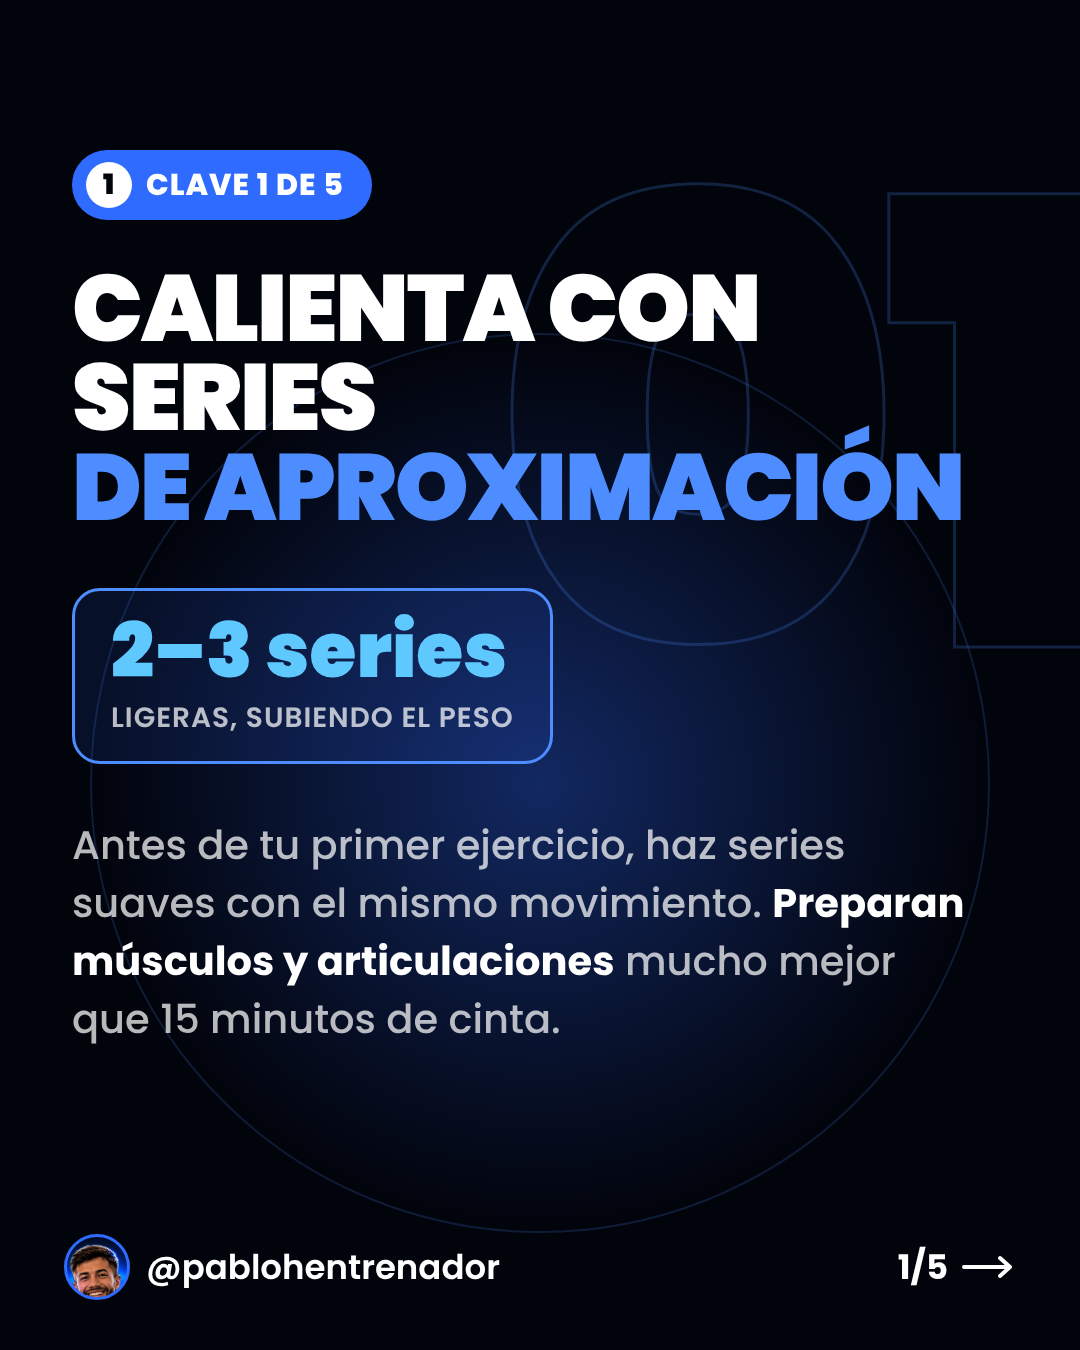
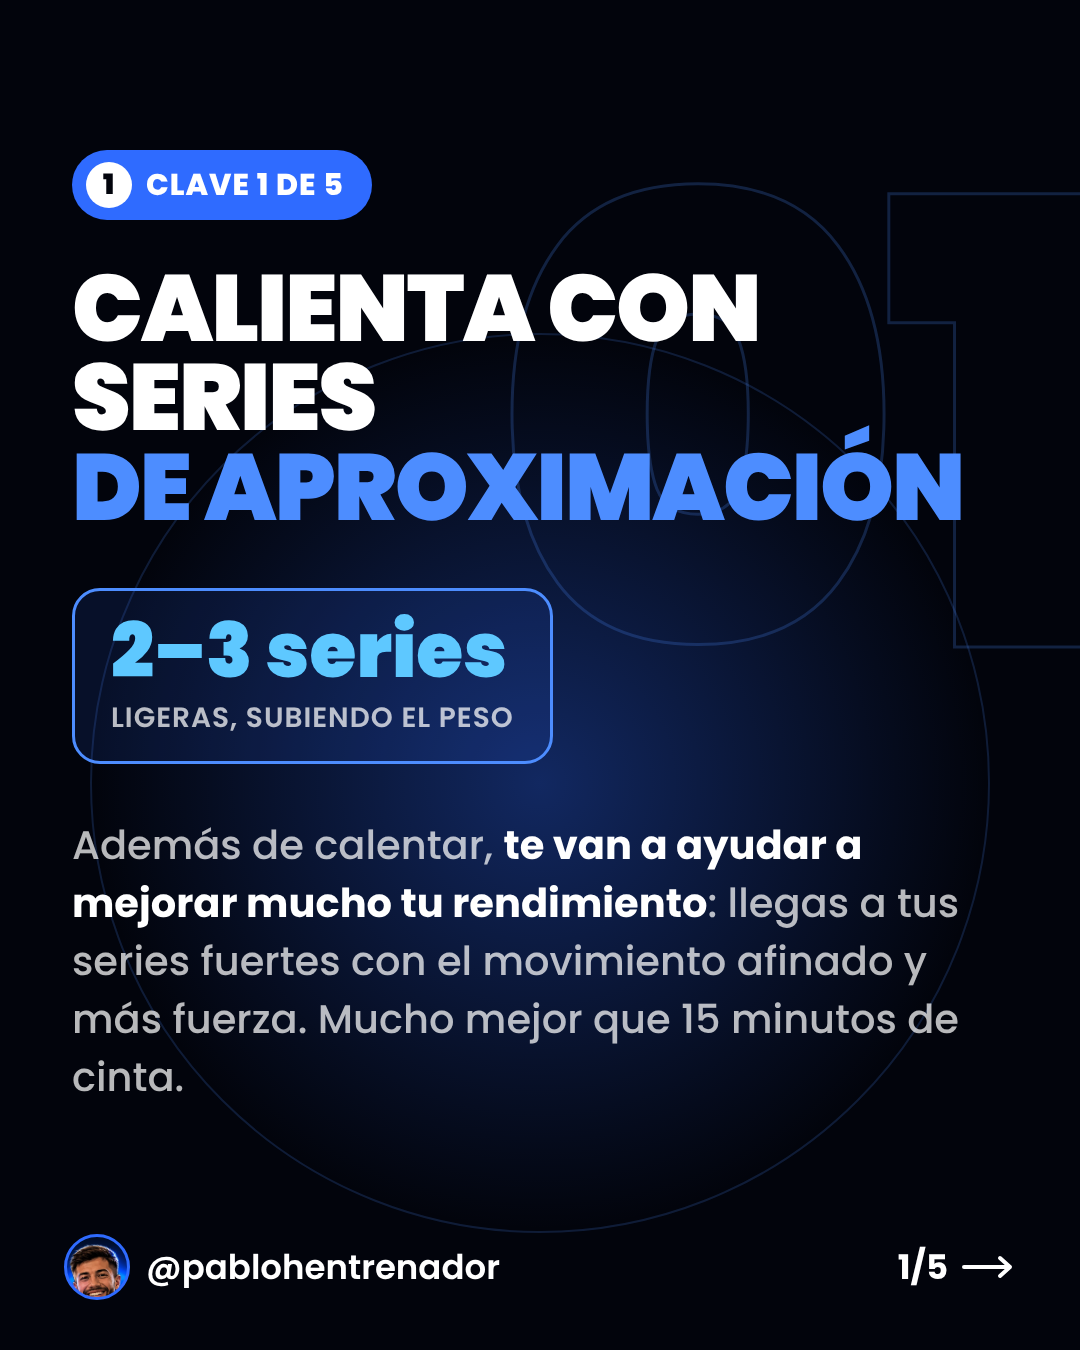
Update warm-up tip copy in carousel slide 2
Claude-Session: https://claude.ai/code/session_01BHaNXe1mRJxbM7TeDTFsk8

Changed region(s): [[0.0611, 0.5911, 0.8861, 0.8089]]

diff --git a/carrusel-pablo/carrusel.html b/carrusel-pablo/carrusel.html
@@ -82,7 +82,7 @@ h1{font-weight:900;line-height:.95;letter-spacing:-1px}
 
 <script>
 const TIPS = [
-  { T: 'Calienta con series<br><span class="b">de aproximación</span>', K: '2–3 series', KS: 'ligeras, subiendo el peso', P: 'Antes de tu primer ejercicio, haz series suaves con el mismo movimiento. <strong>Preparan músculos y articulaciones</strong> mucho mejor que 15 minutos de cinta.' },
+  { T: 'Calienta con series<br><span class="b">de aproximación</span>', K: '2–3 series', KS: 'ligeras, subiendo el peso', P: 'Además de calentar, <strong>te van a ayudar a mejorar mucho tu rendimiento</strong>: llegas a tus series fuertes con el movimiento afinado y más fuerza. Mucho mejor que 15 minutos de cinta.' },
   { T: 'Descansa de verdad<br><span class="b">entre series</span>', K: '2–3 min', KS: 'en los ejercicios grandes', P: 'Sentadilla, press, remo... Si descansas poco, <strong>levantas menos peso y haces menos repeticiones</strong>. Y eso es progresar menos.' },
   { T: 'Usa el recorrido<br><span class="b">completo</span>', K: 'Rango completo', KS: 'y bajada controlada', P: 'Las medias repeticiones dan medio resultado. <strong>Baja controlando y estira el músculo</strong>: ahí está gran parte del estímulo para crecer.' },
   { T: 'Muévete<br><span class="b">fuera del gym</span>', K: '8.000–10.000', KS: 'pasos al día', P: 'Una hora de entreno no compensa 23 horas sentado. <strong>Caminar es clave para perder grasa</strong> y apenas interfiere con tu recuperación.' },
